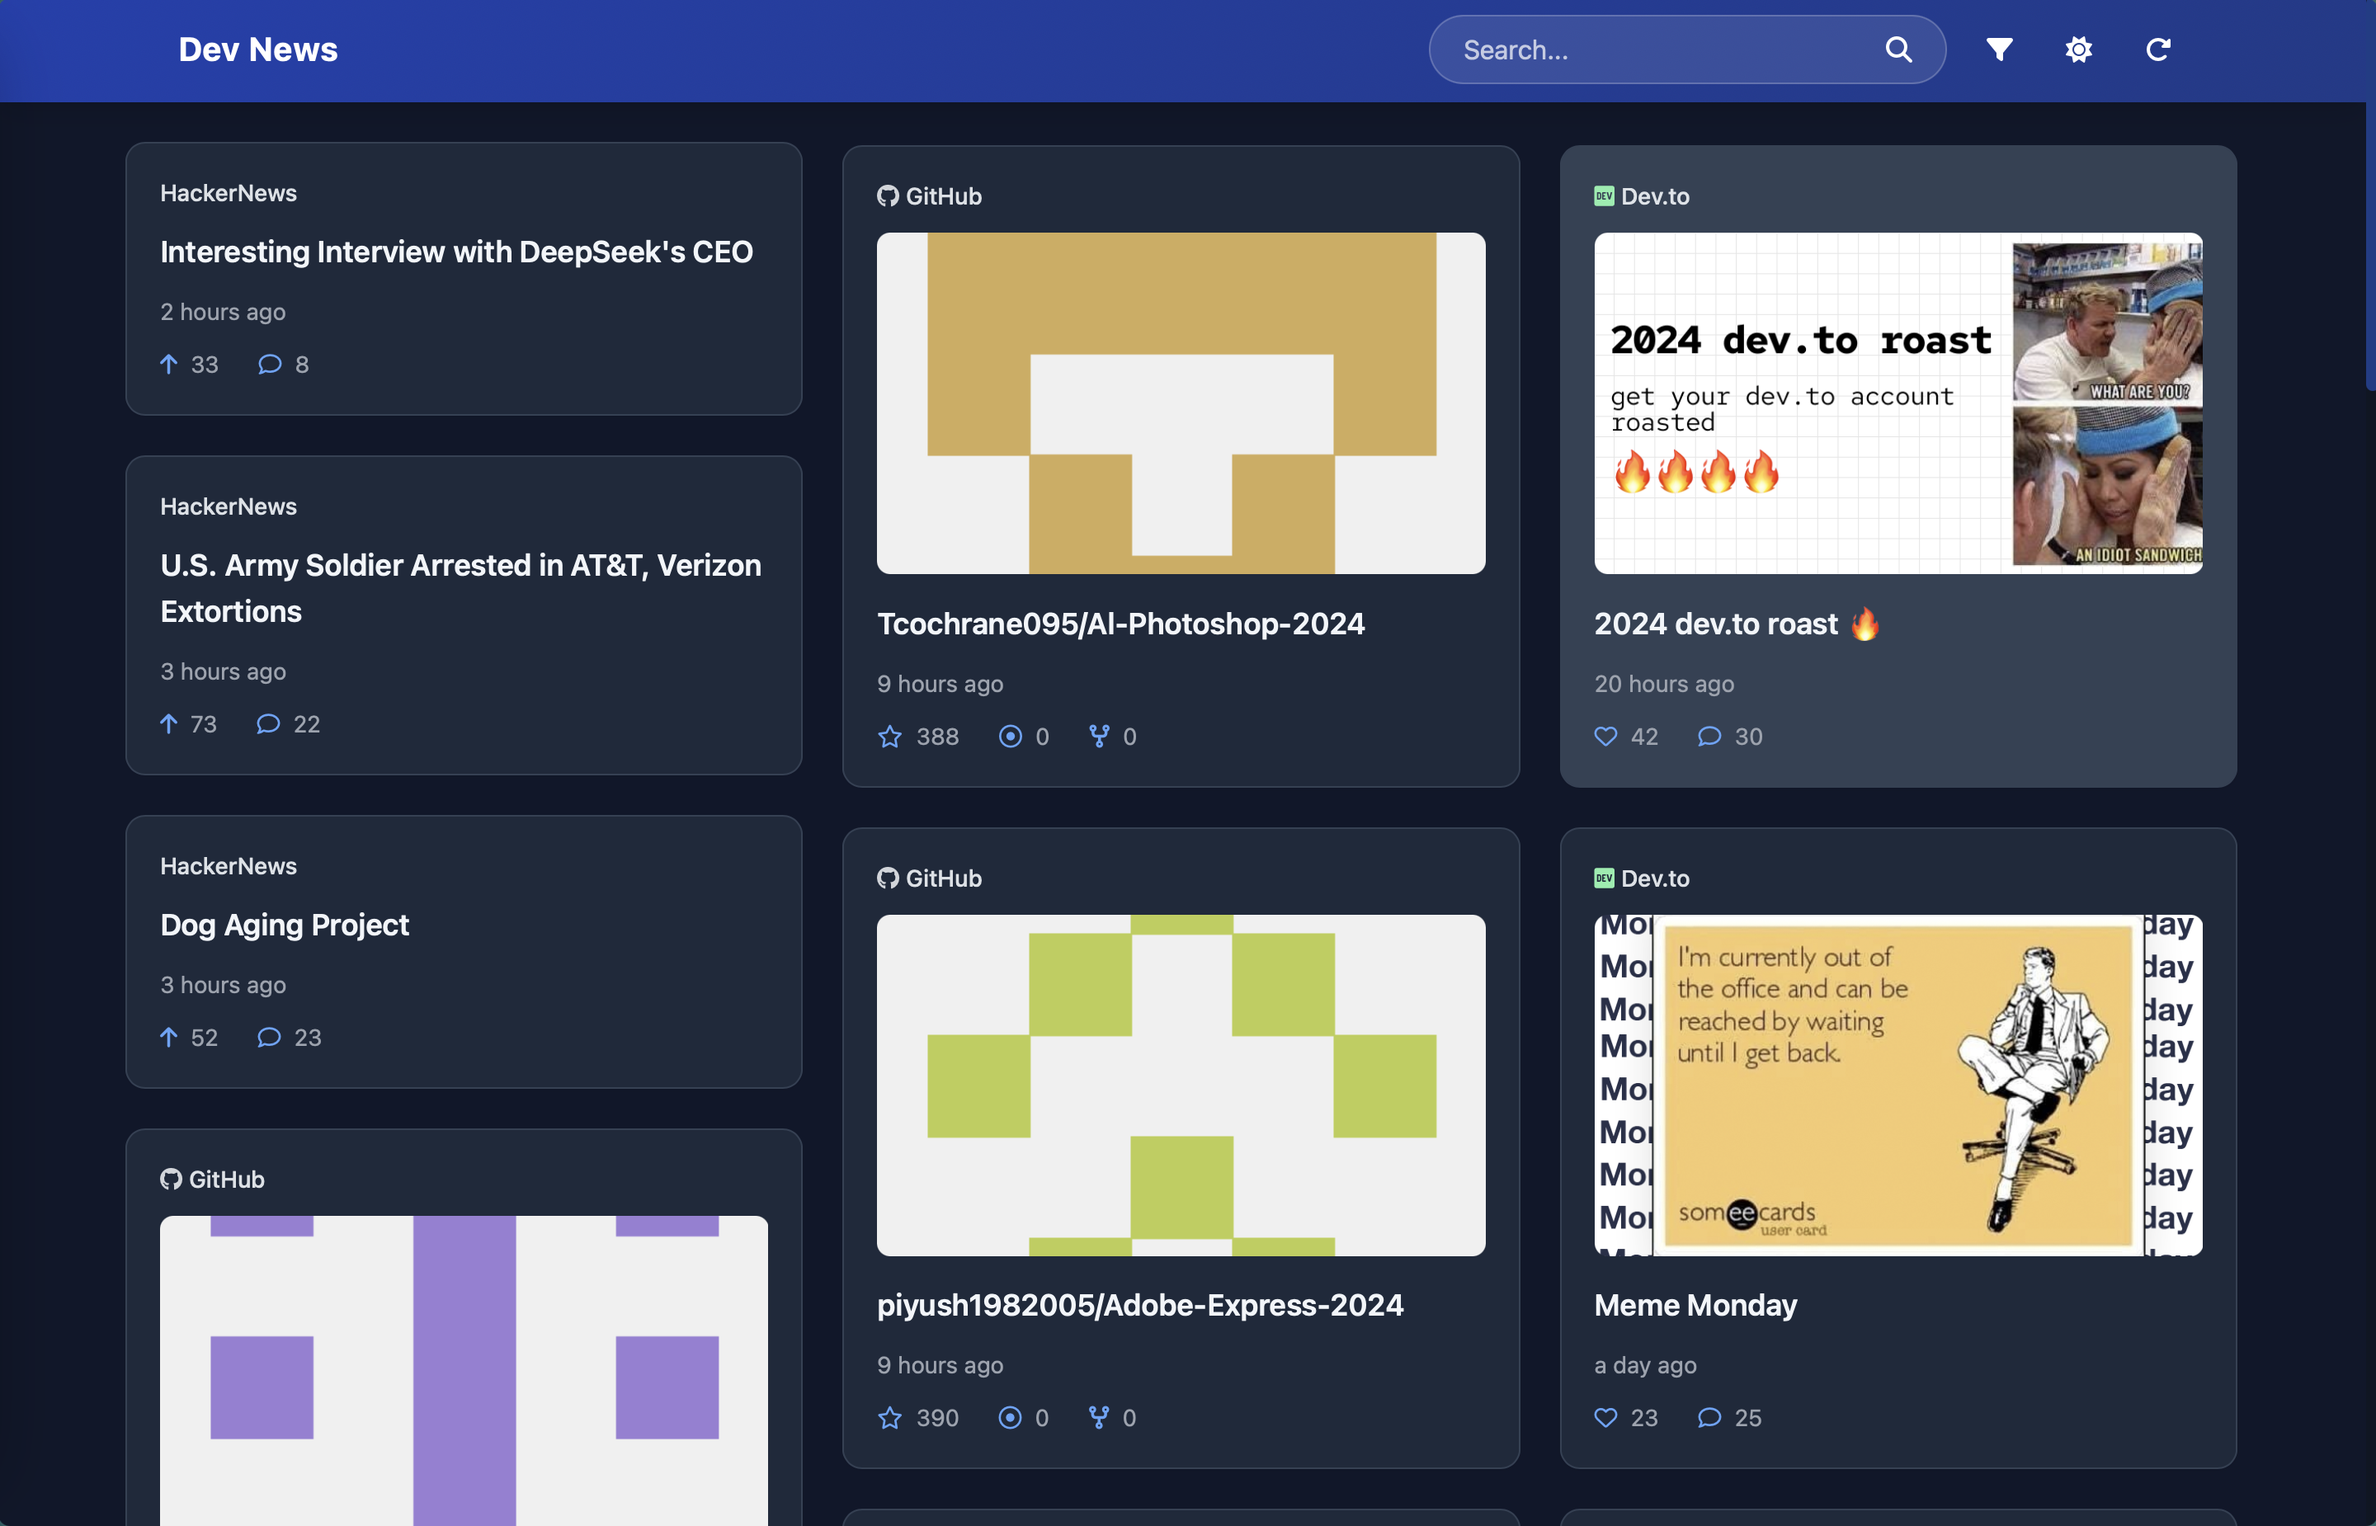
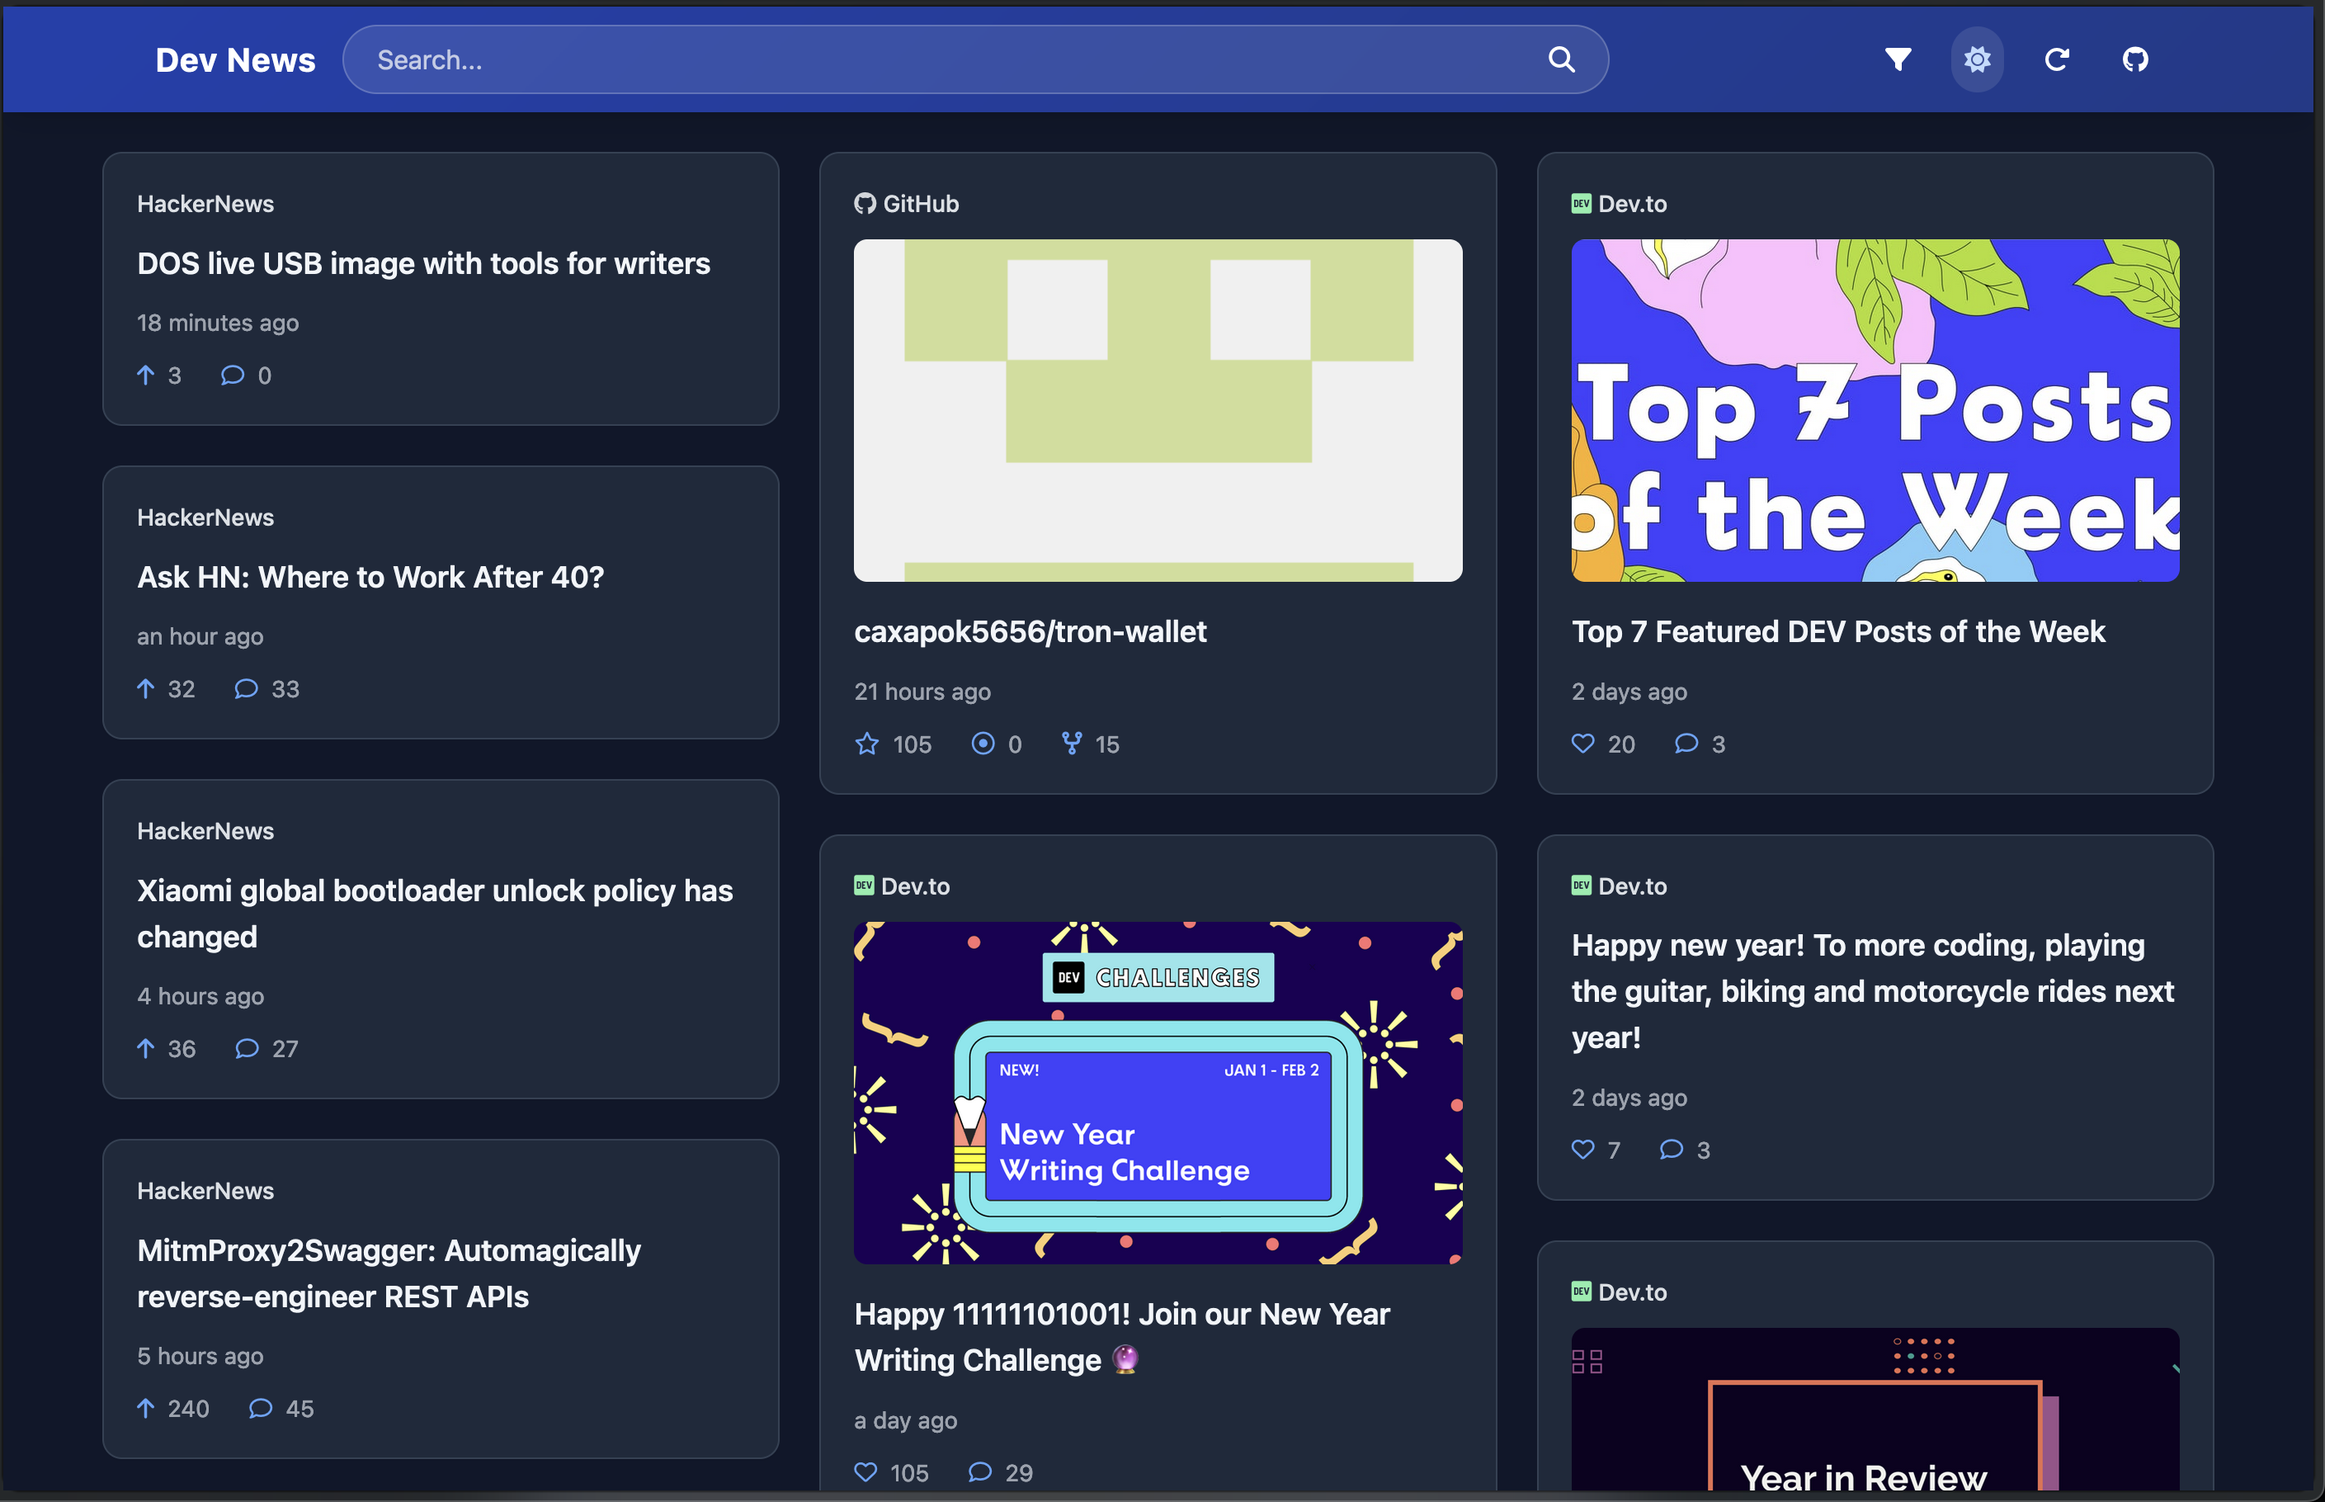
chore: add screenshots

diff --git a/README.md b/README.md
@@ -4,12 +4,14 @@ A sleek and modern developer news aggregator that combines feeds from GitHub, Ha
 
 <div align="center">
 
-![Light Theme](/screenshots/light-theme.png)
-![Dark Theme](/screenshots/dark-theme.png)
-
 [![Made with JavaScript](https://img.shields.io/badge/Made%20with-JavaScript-F7DF1E.svg?style=flat-square&logo=javascript)](https://developer.mozilla.org/en-US/docs/Web/JavaScript)
 [![Styled with Tailwind CSS](https://img.shields.io/badge/Styled%20with-Tailwind%20CSS-38B2AC.svg?style=flat-square&logo=tailwind-css)](https://tailwindcss.com)
 [![MIT License](https://img.shields.io/badge/License-MIT-green.svg?style=flat-square)](LICENSE)
+
+![Light Theme](/screenshots/light-theme.png)
+![Dark Theme](/screenshots/dark-theme.png)
+![Source Filters](/screenshots/filters.png)
+![Smart Search](/screenshots/smart-search.png)
 
 </div>
 
